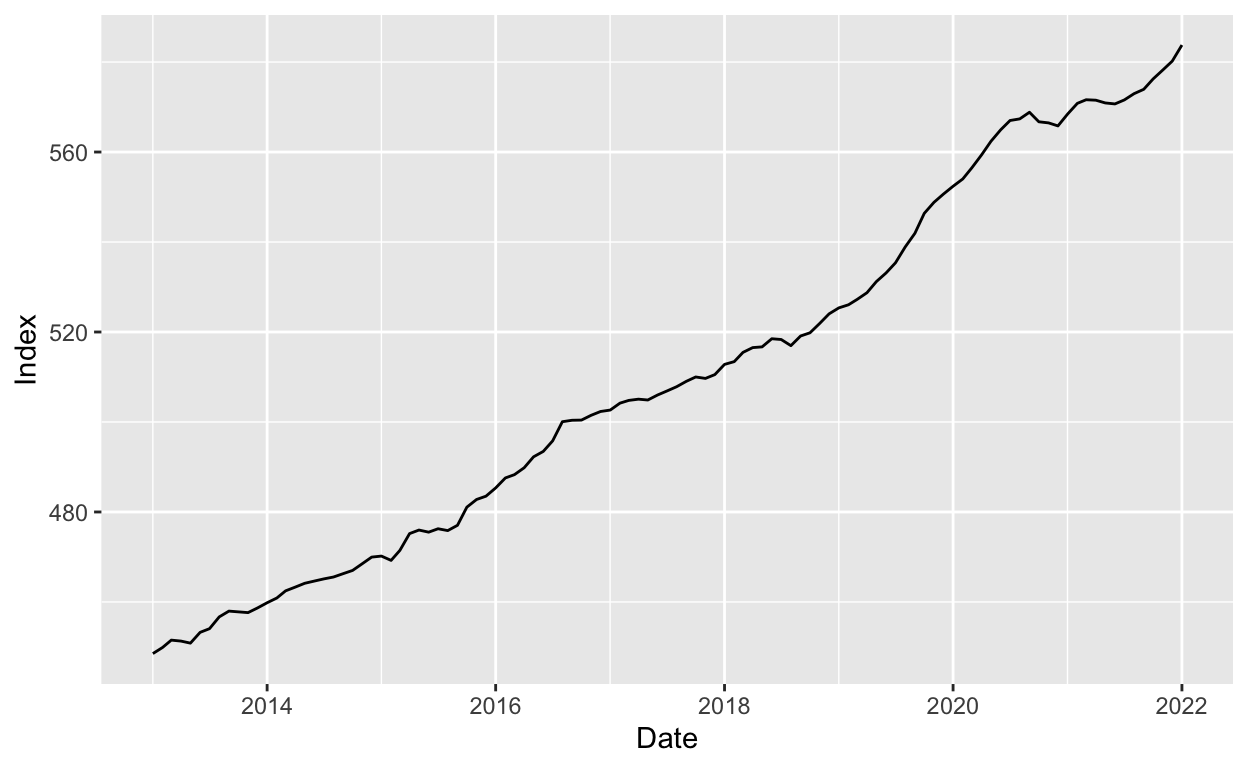
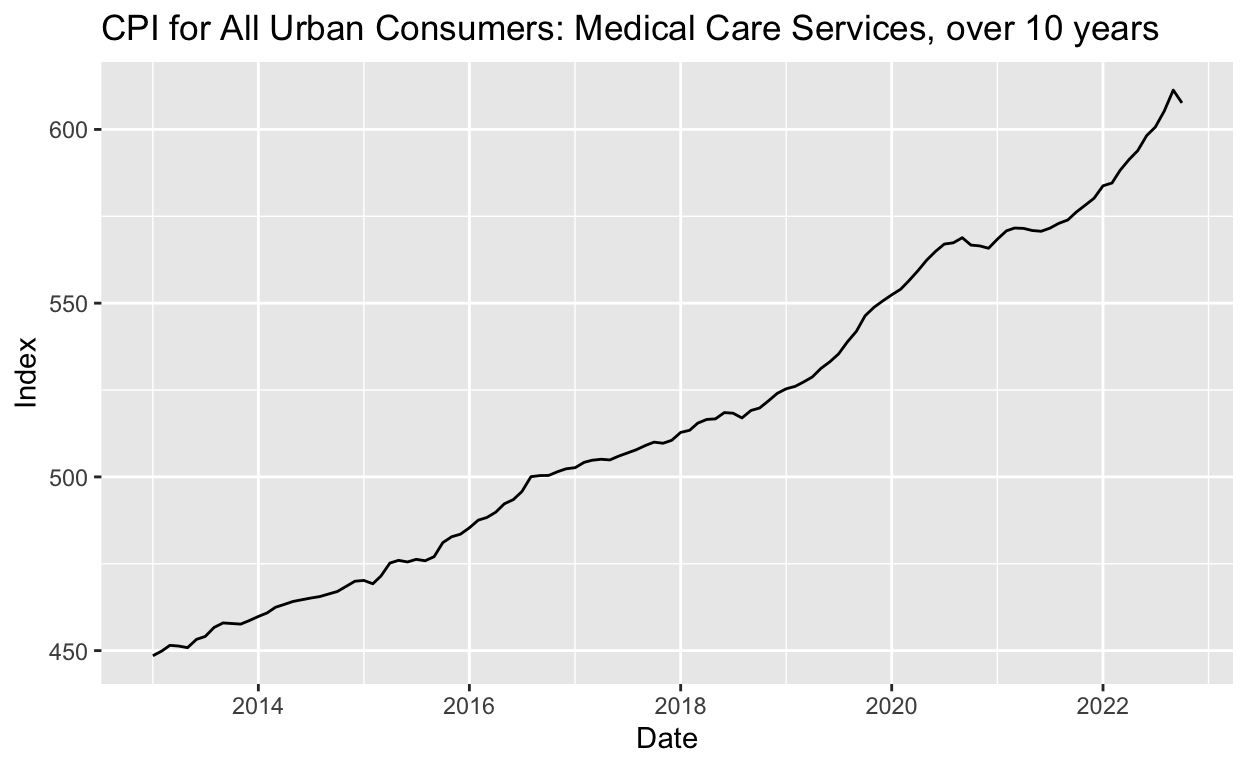
done

diff --git a/index.html b/index.html
@@ -1561,7 +1561,7 @@ $ Index &lt;dbl&gt; 233.696, 233.526, 233.580, 233.776, 233.184, 233.809, …</c
 <div class="sourceCode">
 <pre class="sourceCode r"><code class="sourceCode r"><span><span class='kw'><a href='https://rdrr.io/r/base/library.html'>library</a></span><span class='op'>(</span><span class='va'><a href='https://ggplot2.tidyverse.org'>ggplot2</a></span><span class='op'>)</span></span>
 <span></span>
-<span><span class='fu'><a href='https://ggplot2.tidyverse.org/reference/ggplot.html'>ggplot</a></span><span class='op'>(</span><span class='va'>food_cpi</span>, <span class='fu'><a href='https://ggplot2.tidyverse.org/reference/aes.html'>aes</a></span><span class='op'>(</span>x <span class='op'>=</span> <span class='va'>Date</span>, y <span class='op'>=</span> <span class='va'>Index</span><span class='op'>)</span><span class='op'>)</span> <span class='op'>+</span> <span class='fu'><a href='https://ggplot2.tidyverse.org/reference/geom_path.html'>geom_line</a></span><span class='op'>(</span><span class='op'>)</span></span></code></pre>
+<span><span class='fu'><a href='https://ggplot2.tidyverse.org/reference/ggplot.html'>ggplot</a></span><span class='op'>(</span><span class='va'>food_cpi</span>, <span class='fu'><a href='https://ggplot2.tidyverse.org/reference/aes.html'>aes</a></span><span class='op'>(</span>x <span class='op'>=</span> <span class='va'>Date</span>, y <span class='op'>=</span> <span class='va'>Index</span><span class='op'>)</span><span class='op'>)</span> <span class='op'>+</span> <span class='fu'><a href='https://ggplot2.tidyverse.org/reference/geom_path.html'>geom_line</a></span><span class='op'>(</span><span class='op'>)</span><span class='op'>+</span><span class='fu'><a href='https://ggplot2.tidyverse.org/reference/labs.html'>labs</a></span><span class='op'>(</span>title <span class='op'>=</span> <span class='st'>"CPI for All Urban Consumers: Food, over 10 years"</span><span class='op'>)</span></span></code></pre>
 </div>
 <p><img src="index_files/figure-html5/unnamed-chunk-3-1.png" width="624" /></p>
 </div>
@@ -1576,7 +1576,7 @@ $ Index &lt;dbl&gt; 233.696, 233.526, 233.580, 233.776, 233.184, 233.809, …</c
 <span></span>
 <span><span class='fu'><a href='https://pillar.r-lib.org/reference/glimpse.html'>glimpse</a></span><span class='op'>(</span><span class='va'>medical_services_cpi</span><span class='op'>)</span></span></code></pre>
 </div>
-<pre><code>Rows: 109
+<pre><code>Rows: 118
 Columns: 2
 $ Date  &lt;date&gt; 2013-01-01, 2013-02-01, 2013-03-01, 2013-04-01, 2013-…
 $ Index &lt;dbl&gt; 448.525, 449.885, 451.519, 451.305, 450.850, 453.246, …</code></pre>
@@ -1584,16 +1584,16 @@ $ Index &lt;dbl&gt; 448.525, 449.885, 451.519, 451.305, 450.850, 453.246, …</c
 <pre class="sourceCode r"><code class="sourceCode r"><span><span class='fu'><a href='https://rdrr.io/r/utils/head.html'>tail</a></span><span class='op'>(</span><span class='va'>medical_services_cpi</span><span class='op'>)</span></span></code></pre>
 </div>
 <pre><code>          Date   Index
-104 2021-08-01 572.969
-105 2021-09-01 573.939
-106 2021-10-01 576.248
-107 2021-11-01 578.237
-108 2021-12-01 580.198
-109 2022-01-01 583.779</code></pre>
+113 2022-05-01 593.887
+114 2022-06-01 598.227
+115 2022-07-01 600.683
+116 2022-08-01 605.320
+117 2022-09-01 611.319
+118 2022-10-01 607.635</code></pre>
 </div>
 <div class="layout-chunk" data-layout="l-body">
 <div class="sourceCode">
-<pre class="sourceCode r"><code class="sourceCode r"><span><span class='fu'><a href='https://ggplot2.tidyverse.org/reference/ggplot.html'>ggplot</a></span><span class='op'>(</span><span class='va'>medical_services_cpi</span>, <span class='fu'><a href='https://ggplot2.tidyverse.org/reference/aes.html'>aes</a></span><span class='op'>(</span>x <span class='op'>=</span> <span class='va'>Date</span>, y <span class='op'>=</span> <span class='va'>Index</span><span class='op'>)</span><span class='op'>)</span> <span class='op'>+</span> <span class='fu'><a href='https://ggplot2.tidyverse.org/reference/geom_path.html'>geom_line</a></span><span class='op'>(</span><span class='op'>)</span></span></code></pre>
+<pre class="sourceCode r"><code class="sourceCode r"><span><span class='fu'><a href='https://ggplot2.tidyverse.org/reference/ggplot.html'>ggplot</a></span><span class='op'>(</span><span class='va'>medical_services_cpi</span>, <span class='fu'><a href='https://ggplot2.tidyverse.org/reference/aes.html'>aes</a></span><span class='op'>(</span>x <span class='op'>=</span> <span class='va'>Date</span>, y <span class='op'>=</span> <span class='va'>Index</span><span class='op'>)</span><span class='op'>)</span> <span class='op'>+</span> <span class='fu'><a href='https://ggplot2.tidyverse.org/reference/geom_path.html'>geom_line</a></span><span class='op'>(</span><span class='op'>)</span> <span class='op'>+</span> <span class='fu'><a href='https://ggplot2.tidyverse.org/reference/labs.html'>labs</a></span><span class='op'>(</span>title <span class='op'>=</span> <span class='st'>"CPI for All Urban Consumers: Medical Care Services, over 10 years"</span><span class='op'>)</span></span></code></pre>
 </div>
 <p><img src="index_files/figure-html5/unnamed-chunk-5-1.png" width="624" /></p>
 </div>
@@ -1625,7 +1625,7 @@ $ Index &lt;dbl&gt; 271.027, 271.592, 272.070, 272.591, 273.230, 273.762, …</c
 </div>
 <div class="layout-chunk" data-layout="l-body">
 <div class="sourceCode">
-<pre class="sourceCode r"><code class="sourceCode r"><span><span class='fu'><a href='https://ggplot2.tidyverse.org/reference/ggplot.html'>ggplot</a></span><span class='op'>(</span><span class='va'>shelter_cpi</span>, <span class='fu'><a href='https://ggplot2.tidyverse.org/reference/aes.html'>aes</a></span><span class='op'>(</span>x <span class='op'>=</span> <span class='va'>Date</span>, y <span class='op'>=</span> <span class='va'>Index</span><span class='op'>)</span><span class='op'>)</span> <span class='op'>+</span> <span class='fu'><a href='https://ggplot2.tidyverse.org/reference/geom_path.html'>geom_line</a></span><span class='op'>(</span><span class='op'>)</span></span></code></pre>
+<pre class="sourceCode r"><code class="sourceCode r"><span><span class='fu'><a href='https://ggplot2.tidyverse.org/reference/ggplot.html'>ggplot</a></span><span class='op'>(</span><span class='va'>shelter_cpi</span>, <span class='fu'><a href='https://ggplot2.tidyverse.org/reference/aes.html'>aes</a></span><span class='op'>(</span>x <span class='op'>=</span> <span class='va'>Date</span>, y <span class='op'>=</span> <span class='va'>Index</span><span class='op'>)</span><span class='op'>)</span> <span class='op'>+</span> <span class='fu'><a href='https://ggplot2.tidyverse.org/reference/geom_path.html'>geom_line</a></span><span class='op'>(</span><span class='op'>)</span> <span class='op'>+</span> <span class='fu'><a href='https://ggplot2.tidyverse.org/reference/labs.html'>labs</a></span><span class='op'>(</span>title <span class='op'>=</span> <span class='st'>"CPI for All Urban Consumers: Rent of Shelter, over 10 years"</span><span class='op'>)</span></span></code></pre>
 </div>
 <p><img src="index_files/figure-html5/unnamed-chunk-7-1.png" width="624" /></p>
 </div>
@@ -1657,7 +1657,7 @@ $ Index &lt;dbl&gt; 306.734, 329.253, 310.442, 295.206, 293.131, 298.112, …</c
 </div>
 <div class="layout-chunk" data-layout="l-body">
 <div class="sourceCode">
-<pre class="sourceCode r"><code class="sourceCode r"><span><span class='fu'><a href='https://ggplot2.tidyverse.org/reference/ggplot.html'>ggplot</a></span><span class='op'>(</span><span class='va'>gasoline_cpi</span>, <span class='fu'><a href='https://ggplot2.tidyverse.org/reference/aes.html'>aes</a></span><span class='op'>(</span>x <span class='op'>=</span> <span class='va'>Date</span>, y <span class='op'>=</span> <span class='va'>Index</span><span class='op'>)</span><span class='op'>)</span> <span class='op'>+</span> <span class='fu'><a href='https://ggplot2.tidyverse.org/reference/geom_path.html'>geom_line</a></span><span class='op'>(</span><span class='op'>)</span></span></code></pre>
+<pre class="sourceCode r"><code class="sourceCode r"><span><span class='fu'><a href='https://ggplot2.tidyverse.org/reference/ggplot.html'>ggplot</a></span><span class='op'>(</span><span class='va'>gasoline_cpi</span>, <span class='fu'><a href='https://ggplot2.tidyverse.org/reference/aes.html'>aes</a></span><span class='op'>(</span>x <span class='op'>=</span> <span class='va'>Date</span>, y <span class='op'>=</span> <span class='va'>Index</span><span class='op'>)</span><span class='op'>)</span> <span class='op'>+</span> <span class='fu'><a href='https://ggplot2.tidyverse.org/reference/geom_path.html'>geom_line</a></span><span class='op'>(</span><span class='op'>)</span> <span class='op'>+</span><span class='fu'><a href='https://ggplot2.tidyverse.org/reference/labs.html'>labs</a></span><span class='op'>(</span>title <span class='op'>=</span> <span class='st'>"CPI for All Urban Consumers: Gasoline, over 10 years"</span><span class='op'>)</span></span></code></pre>
 </div>
 <p><img src="index_files/figure-html5/unnamed-chunk-9-1.png" width="624" /></p>
 </div>
@@ -1689,7 +1689,7 @@ $ Index &lt;int&gt; 768, 777, 779, 782, 790, 781, 798, 795, 802, 803, 809,…</c
 </div>
 <div class="layout-chunk" data-layout="l-body">
 <div class="sourceCode">
-<pre class="sourceCode r"><code class="sourceCode r"><span><span class='fu'><a href='https://ggplot2.tidyverse.org/reference/ggplot.html'>ggplot</a></span><span class='op'>(</span><span class='va'>totalwage_weekly</span>, <span class='fu'><a href='https://ggplot2.tidyverse.org/reference/aes.html'>aes</a></span><span class='op'>(</span>x <span class='op'>=</span> <span class='va'>Date</span>, y <span class='op'>=</span> <span class='va'>Index</span><span class='op'>)</span><span class='op'>)</span> <span class='op'>+</span> <span class='fu'><a href='https://ggplot2.tidyverse.org/reference/geom_path.html'>geom_line</a></span><span class='op'>(</span><span class='op'>)</span></span></code></pre>
+<pre class="sourceCode r"><code class="sourceCode r"><span><span class='fu'><a href='https://ggplot2.tidyverse.org/reference/ggplot.html'>ggplot</a></span><span class='op'>(</span><span class='va'>totalwage_weekly</span>, <span class='fu'><a href='https://ggplot2.tidyverse.org/reference/aes.html'>aes</a></span><span class='op'>(</span>x <span class='op'>=</span> <span class='va'>Date</span>, y <span class='op'>=</span> <span class='va'>Index</span><span class='op'>)</span><span class='op'>)</span> <span class='op'>+</span> <span class='fu'><a href='https://ggplot2.tidyverse.org/reference/geom_path.html'>geom_line</a></span><span class='op'>(</span><span class='op'>)</span> <span class='op'>+</span> <span class='fu'><a href='https://ggplot2.tidyverse.org/reference/labs.html'>labs</a></span><span class='op'>(</span>title <span class='op'>=</span> <span class='st'>"Median weekly earnings over 10 years for ages 16 and above"</span><span class='op'>)</span></span></code></pre>
 </div>
 <p><img src="index_files/figure-html5/unnamed-chunk-11-1.png" width="624" /></p>
 </div>
@@ -1721,7 +1721,7 @@ $ Index &lt;int&gt; 860, 863, 855, 865, 865, 860, 878, 878, 886, 890, 896,…</c
 </div>
 <div class="layout-chunk" data-layout="l-body">
 <div class="sourceCode">
-<pre class="sourceCode r"><code class="sourceCode r"><span><span class='fu'><a href='https://ggplot2.tidyverse.org/reference/ggplot.html'>ggplot</a></span><span class='op'>(</span><span class='va'>menwage_weekly</span>, <span class='fu'><a href='https://ggplot2.tidyverse.org/reference/aes.html'>aes</a></span><span class='op'>(</span>x <span class='op'>=</span> <span class='va'>Date</span>, y <span class='op'>=</span> <span class='va'>Index</span><span class='op'>)</span><span class='op'>)</span> <span class='op'>+</span> <span class='fu'><a href='https://ggplot2.tidyverse.org/reference/geom_path.html'>geom_line</a></span><span class='op'>(</span><span class='op'>)</span></span></code></pre>
+<pre class="sourceCode r"><code class="sourceCode r"><span><span class='fu'><a href='https://ggplot2.tidyverse.org/reference/ggplot.html'>ggplot</a></span><span class='op'>(</span><span class='va'>menwage_weekly</span>, <span class='fu'><a href='https://ggplot2.tidyverse.org/reference/aes.html'>aes</a></span><span class='op'>(</span>x <span class='op'>=</span> <span class='va'>Date</span>, y <span class='op'>=</span> <span class='va'>Index</span><span class='op'>)</span><span class='op'>)</span> <span class='op'>+</span> <span class='fu'><a href='https://ggplot2.tidyverse.org/reference/geom_path.html'>geom_line</a></span><span class='op'>(</span><span class='op'>)</span><span class='op'>+</span> <span class='fu'><a href='https://ggplot2.tidyverse.org/reference/labs.html'>labs</a></span><span class='op'>(</span>title <span class='op'>=</span> <span class='st'>"Median weekly earnings over 10 years for men of ages 16 and above"</span><span class='op'>)</span></span></code></pre>
 </div>
 <p><img src="index_files/figure-html5/unnamed-chunk-13-1.png" width="624" /></p>
 </div>
@@ -1753,7 +1753,7 @@ $ Index &lt;int&gt; 699, 706, 705, 712, 716, 715, 721, 724, 725, 725, 727,…</c
 </div>
 <div class="layout-chunk" data-layout="l-body">
 <div class="sourceCode">
-<pre class="sourceCode r"><code class="sourceCode r"><span><span class='fu'><a href='https://ggplot2.tidyverse.org/reference/ggplot.html'>ggplot</a></span><span class='op'>(</span><span class='va'>womenwage_weekly</span>, <span class='fu'><a href='https://ggplot2.tidyverse.org/reference/aes.html'>aes</a></span><span class='op'>(</span>x <span class='op'>=</span> <span class='va'>Date</span>, y <span class='op'>=</span> <span class='va'>Index</span><span class='op'>)</span><span class='op'>)</span> <span class='op'>+</span> <span class='fu'><a href='https://ggplot2.tidyverse.org/reference/geom_path.html'>geom_line</a></span><span class='op'>(</span><span class='op'>)</span></span></code></pre>
+<pre class="sourceCode r"><code class="sourceCode r"><span><span class='fu'><a href='https://ggplot2.tidyverse.org/reference/ggplot.html'>ggplot</a></span><span class='op'>(</span><span class='va'>womenwage_weekly</span>, <span class='fu'><a href='https://ggplot2.tidyverse.org/reference/aes.html'>aes</a></span><span class='op'>(</span>x <span class='op'>=</span> <span class='va'>Date</span>, y <span class='op'>=</span> <span class='va'>Index</span><span class='op'>)</span><span class='op'>)</span> <span class='op'>+</span> <span class='fu'><a href='https://ggplot2.tidyverse.org/reference/geom_path.html'>geom_line</a></span><span class='op'>(</span><span class='op'>)</span> <span class='op'>+</span> <span class='fu'><a href='https://ggplot2.tidyverse.org/reference/labs.html'>labs</a></span><span class='op'>(</span>title <span class='op'>=</span> <span class='st'>"Median weekly earnings over 10 years for women of ages 16 and above"</span><span class='op'>)</span></span></code></pre>
 </div>
 <p><img src="index_files/figure-html5/unnamed-chunk-15-1.png" width="624" /></p>
 </div>
